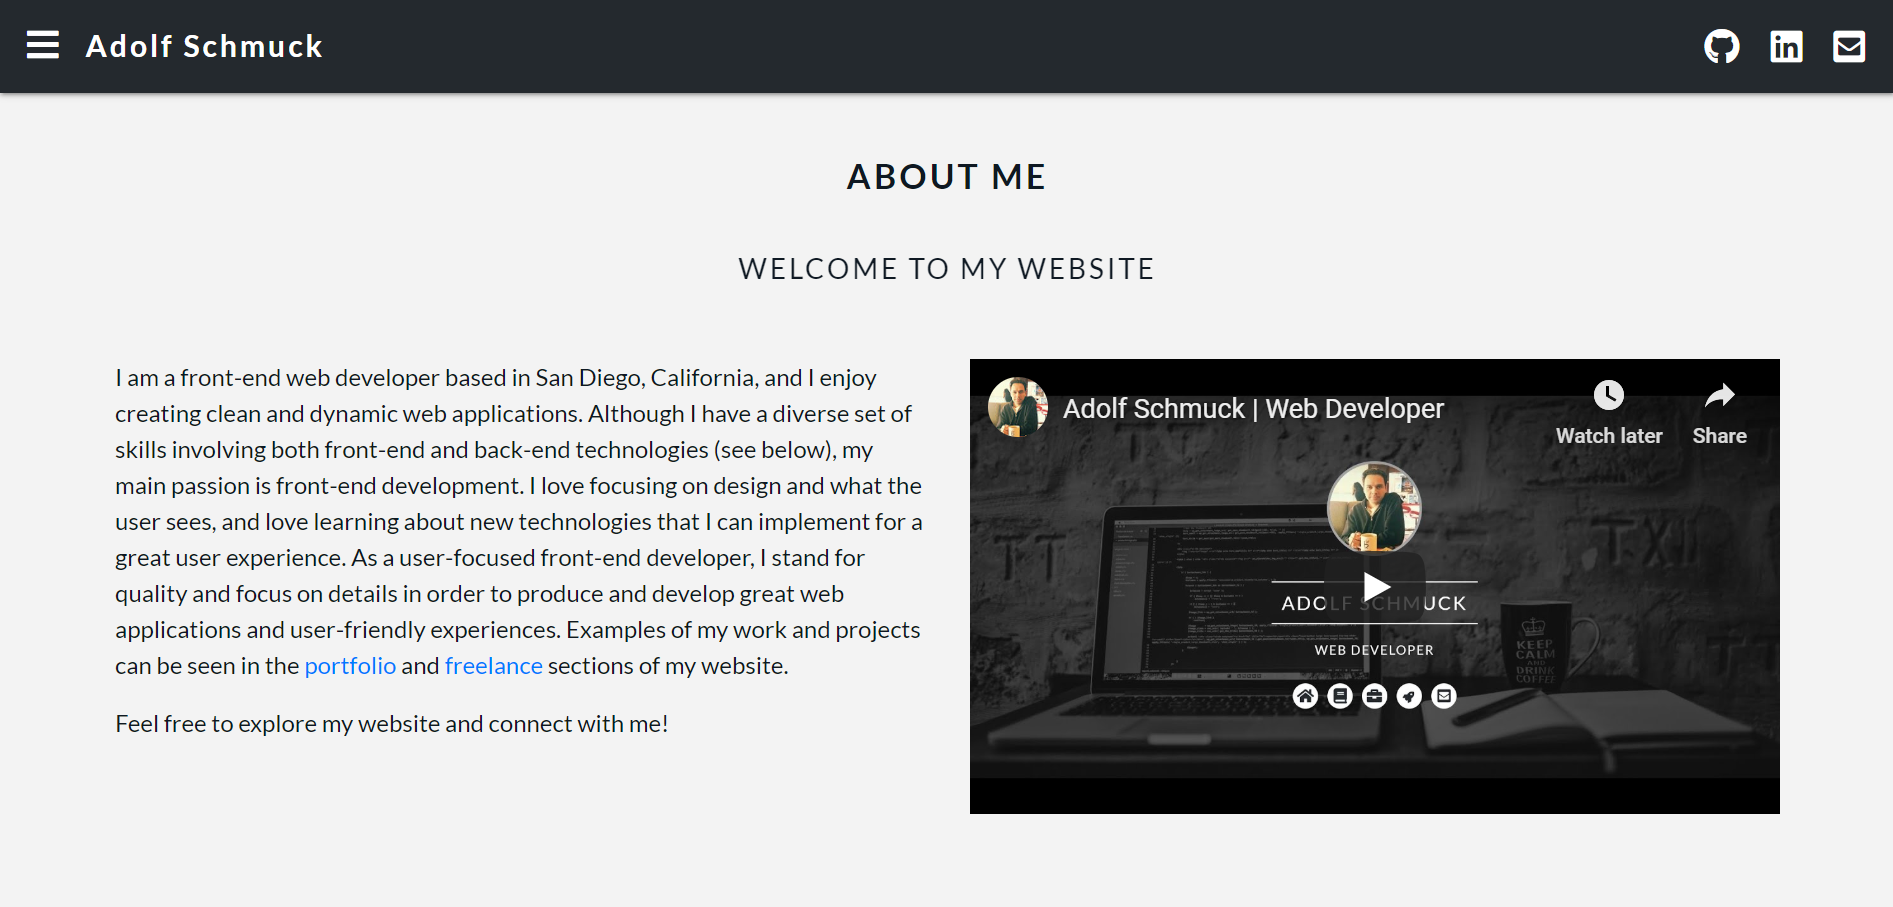
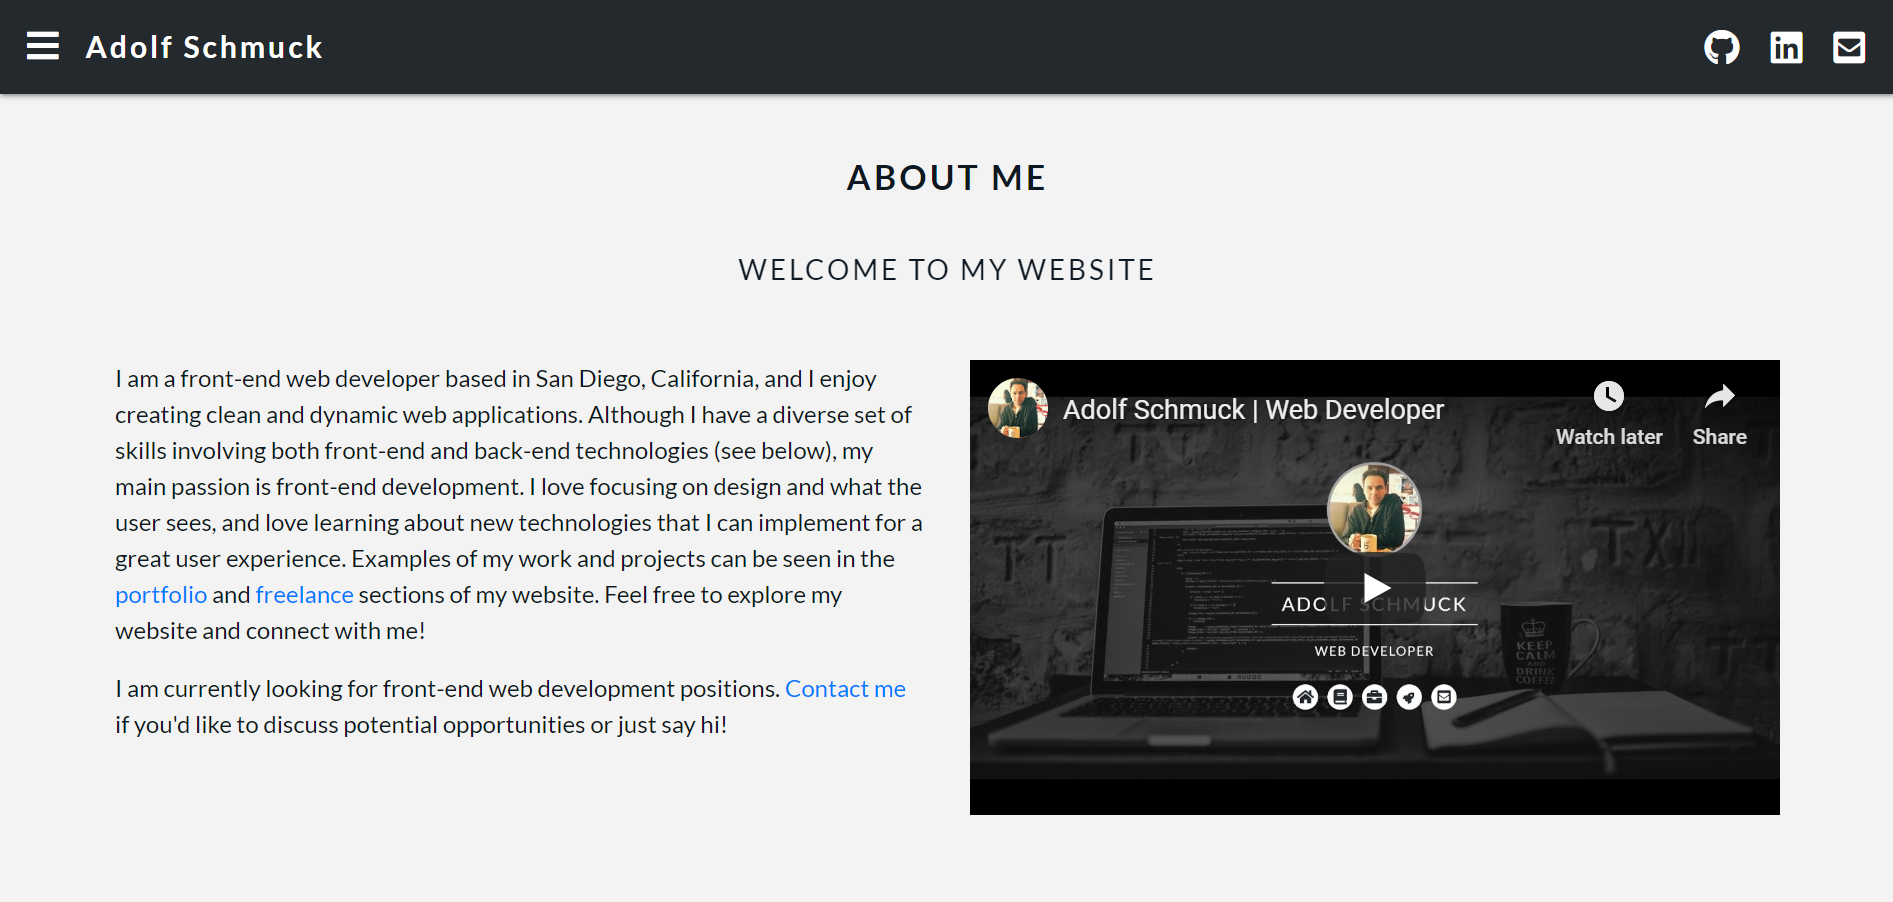
updated About Me page

diff --git a/about.html b/about.html
@@ -90,15 +90,15 @@
                     and what the
                     user
                     sees, and love
-                    learning about new technologies that I can implement for a great user experience. As a user-focused
-                    front-end
-                    developer, I stand for quality and focus on details in order to produce and develop great web
-                    applications
-                    and user-friendly experiences. Examples of my work and projects can be seen in the <a
-                        href="portfolio.html">portfolio</a> and <a href="freelance.html">freelance</a> sections of my
-                    website.
+                    learning about new technologies that I can implement for a great user experience. Examples of my
+                    work and projects can be seen in the <a href="portfolio.html">portfolio</a> and <a
+                        href="freelance.html">freelance</a> sections of my
+                    website. Feel free to explore my website and connect with me!
                 </p>
-                <p id="about">Feel free to explore my website and connect with me!</p>
+                <p id="about">I am currently looking for front-end web development positions. <a
+                        href="mailto:adolf.schmuck@gmail.com">Contact me</a> if you'd like to
+                    discuss potential opportunities or just say hi!
+                </p>
             </div>
 
             <div class="col-md-6">
